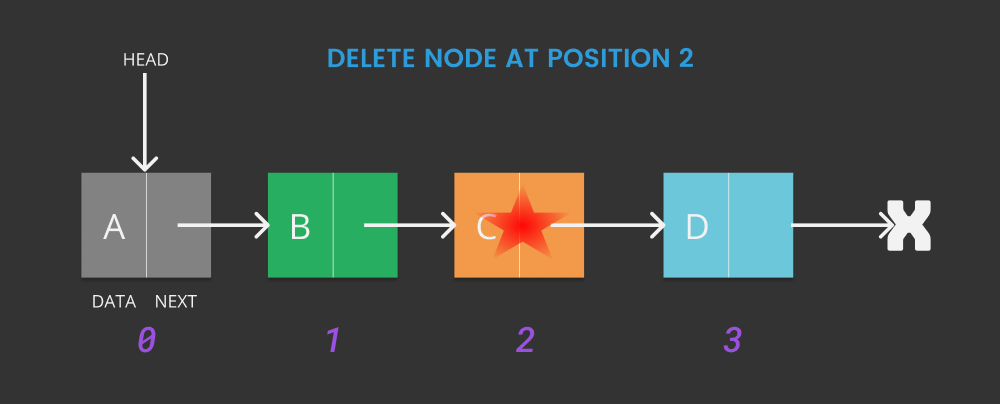
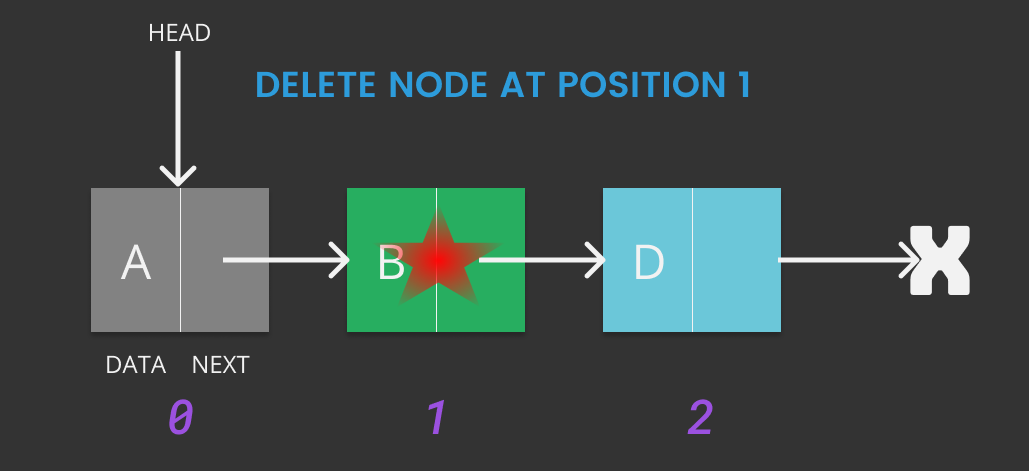
:tada: Delete node with specific position same as image :rocket:

diff --git a/docs/README.md b/docs/README.md
@@ -164,7 +164,7 @@ void deleteNodeWithSpecifiedPostion(node **head,int position) {
 	
 	if(temp == NULL) 
 		return;
-	
+
 	if(position == 0) {
 		*head = temp->next;
 		free(temp);
@@ -177,8 +177,10 @@ void deleteNodeWithSpecifiedPostion(node **head,int position) {
 	if(temp == NULL || temp->next == NULL)
 		return;
 
+	node *next = temp->next->next;
+	
 	free(temp->next);
-	temp->next = temp->next->next;
+	temp->next = next;
 }
 
 ```
@@ -188,17 +190,15 @@ void deleteNodeWithSpecifiedPostion(node **head,int position) {
 ```cpp
 
 node *head = NULL;
+insertAtStart(&head, 'D');
 insertAtStart(&head, 'C');
 insertAtStart(&head, 'B');
 insertAtStart(&head, 'A');
-insertAtStart(&head, 'D');
-insertAtStart(&head, 'E');
-insertAtStart(&head, 'F');
-cout<<"Deleting node with key 'B' : "<<endl;
-deleteNodeWithSpecifiedKey(&head, 'B');
+cout<<"Deleting node with key 'C' : "<<endl;
+deleteNodeWithSpecifiedKey(&head, 'C');
 printList(head);
-cout<<"Deleting node at position 2 : "<<endl;
-deleteNodeWithSpecifiedPostion(&head,2);
+cout<<"Deleting node at position 1 : "<<endl;
+deleteNodeWithSpecifiedPostion(&head,1);
 printList(head);
 
 ```
@@ -206,10 +206,10 @@ printList(head);
 #### Output
 
 ```cpp
-Deleting node with key 'B' : 
-F -> E -> D -> A -> C -> NULL
-Deleting node at position 2 : 
-F -> E -> A -> C -> NULL
+Deleting node with key 'C' : 
+A -> B -> D -> NULL
+Deleting node at position 1 : 
+A -> D -> NULL
 
 ```
 
